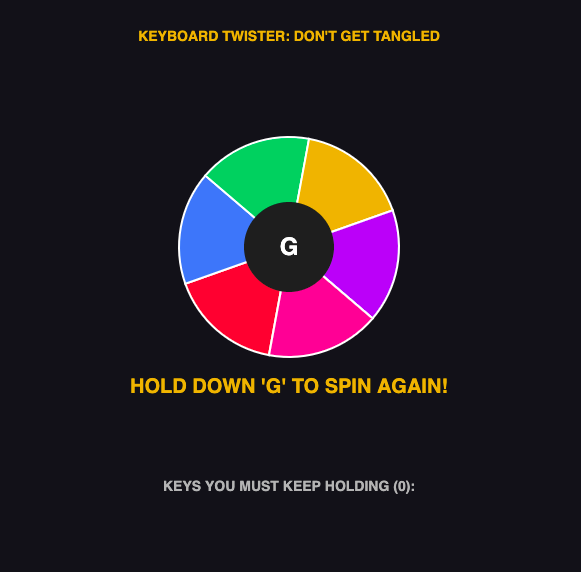
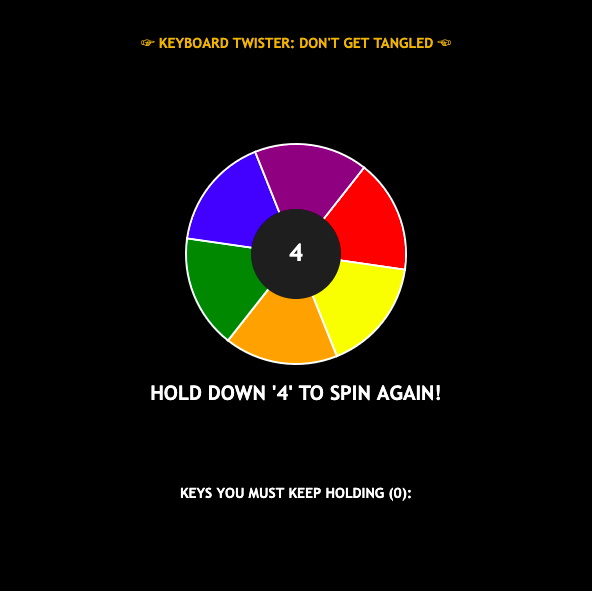
update twister text and colour choices

diff --git a/topics/prototyping-events/twister/js/script.js b/topics/prototyping-events/twister/js/script.js
@@ -64,13 +64,14 @@ function setup() {
  * Draw the background and the conditionals for game setup
 */
 function draw() {
-    background(18, 18, 24);
+    background('black');
 
     push();
+    textFont('Trebuchet MS');
     textSize(14);
     fill(234, 179, 8);
     noStroke();
-    text(`KEYBOARD TWISTER: DON'T GET TANGLED`, width / 2, height - 550);
+    text(`☞ KEYBOARD TWISTER: DON'T GET TANGLED ☜`, width / 2, height - 550);
 
     // Conditionals for game setup
     if (gameState === 'START') {
@@ -96,7 +97,7 @@ function startNewGame() {
 function triggerSpin() {
     // Find keys that aren't already required
     let unused = availableKeys.filter(k => !requiredKeys.some(rk => rk.char === k.char));
-    if (unused.length === 0) return; // Player beat the game!
+    if (unused.length === 0) return; // Player beat the game
 
     pendingKey = random(unused);
     spinSpeed = random(25, 35);
@@ -107,6 +108,7 @@ function updateSpinning() {
     verifyKeysHeld(); // Make sure player didn't let go while wheel spins
     if (gameState === 'GAMEOVER') return;
 
+    // Reference for spinning wheel from https://editor.p5js.org/willgeary/sketches/B15uLDjhm
     wheelAngle += spinSpeed;
     spinSpeed *= 0.94; // Deceleration friction
 
@@ -148,7 +150,7 @@ function drawGameUI() {
     push();
     translate(width / 2, height / 2 - 40);
     let sliceAngle = 360 / 6;
-    let colors = [color(239, 68, 68), color(59, 130, 246), color(34, 197, 94), color(234, 179, 8), color(168, 85, 247), color(236, 72, 153)];
+    let colors = [color('red'), color('yellow'), color('orange'), color('green'), color('blue'), color('purple')];
 
     stroke(255);
     strokeWeight(2);
@@ -162,7 +164,7 @@ function drawGameUI() {
     noStroke();
     ellipse(0, 0, 90, 90);
 
-    fill(255);
+    fill('white');
     textSize(24);
     textStyle(BOLD);
     if (gameState === 'SPINNING') {
@@ -175,12 +177,12 @@ function drawGameUI() {
     // Draw Directive Banner
     push();
     if (gameState === 'AWAITING_INPUT' && pendingKey) {
-        fill(234, 179, 8);
+        fill('white');
         textSize(20);
         textStyle(BOLD);
         text(`HOLD DOWN '${pendingKey.char}' TO SPIN AGAIN!`, width / 2, height / 2 + 100);
     } else if (gameState === 'SPINNING') {
-        fill(150);
+        fill('white');
         textSize(18);
         text("SPINNING...", width / 2, height / 2 + 100);
     }
@@ -189,7 +191,7 @@ function drawGameUI() {
     // Draw Locked Keys (keys player must keep holding)
     push();
     textSize(14);
-    fill(180);
+    fill('white');
     noStroke();
     text(`KEYS YOU MUST KEEP HOLDING (${requiredKeys.length}):`, width / 2, height - 100);
 
@@ -198,13 +200,19 @@ function drawGameUI() {
         let rk = requiredKeys[i];
         let isHeld = activeKeysHeld.has(rk.char);
 
-        stroke(isHeld ? color(34, 197, 94) : color(239, 68, 68));
-        strokeWeight(2);
-        fill(isHeld ? color(34, 197, 94, 60) : color(239, 68, 68, 60));
+        // 1. Set color based on whether it is held
+        noStroke();
+        if (isHeld) {
+            fill('green');   // Solid green when held
+        } else {
+            fill('red');   // Solid red when NOT held
+        }
+
+        // 2. Draw the solid circle
         ellipse(startX + (i * 60), height - 50, 45, 45);
 
-        noStroke();
-        fill(255);
+        // 3. Draw the key letter on top
+        fill(255); // White text
         textSize(18);
         textStyle(BOLD);
         text(rk.char, startX + (i * 60), height - 49);
@@ -221,22 +229,22 @@ function drawStartScreen() {
     textStyle(BOLD);
     text("KEYBOARD TWISTER", width / 2, height / 2 - 50);
     textSize(16);
-    fill(180);
+    fill('white');
     text("1. Wheel spins and picks a key.\n2. Press and hold that key to spin again.\n3. Never let go of ANY required key!", width / 2, height / 2 + 10);
-    fill(34, 197, 94);
+    fill('red');
     textSize(18);
     text("Press SPACE to Start", width / 2, height / 2 + 100);
 }
 
 function drawGameOverScreen() {
-    fill(239, 68, 68);
+    fill('red');
     textSize(34);
     textStyle(BOLD);
     text("TANGLED! KEY RELEASED", width / 2, height / 2 - 40);
-    fill(255);
+    fill('white');
     textSize(18);
-    text(`You successfully held ${requiredKeys.length} keys!`, width / 2, height / 2 + 10);
-    fill(180);
+    text(`You successfully held ${requiredKeys.length} keys`, width / 2, height / 2 + 10);
+    fill('white');
     textSize(16);
     text("Press SPACE to try again", width / 2, height / 2 + 60);
 }
